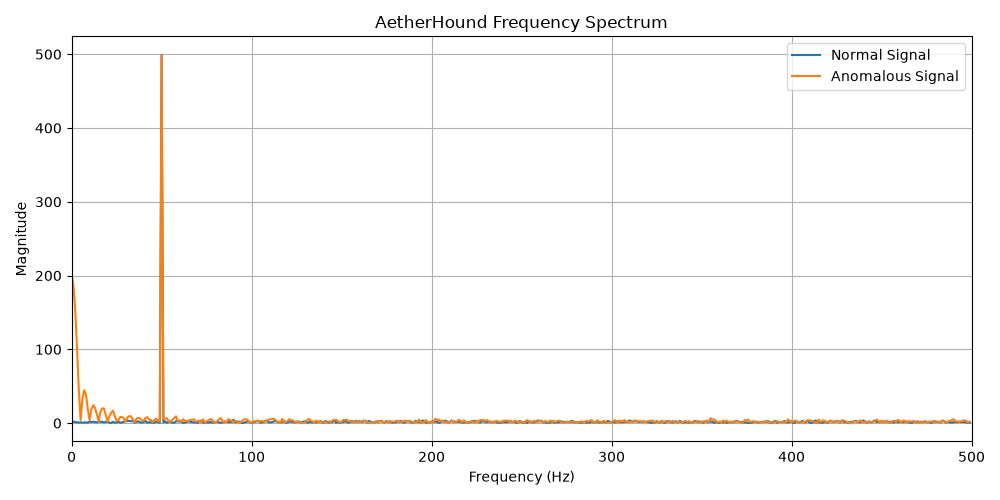
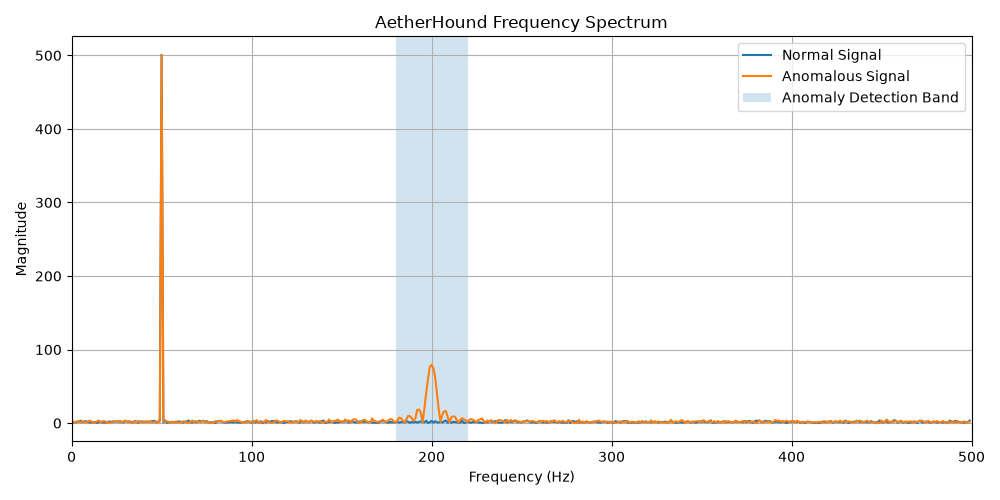
Week 1 - Frequency spectrum visualization

Changed region(s): [[0.031, 0.06, 0.961, 0.9], [0.031, 0.54, 0.062, 0.57], [0.031, 0.39, 0.062, 0.42]]

diff --git a/dsp/plot_spectrum.py b/dsp/plot_spectrum.py
@@ -6,6 +6,9 @@ from fft_analysis import calculate_fft
 
 SAMPLE_RATE = 1000
 
+ANOMALY_LOW = 180
+ANOMALY_HIGH = 220
+
 
 # Load signal data
 with open("../data/samples/signal_samples.json", "r") as file:
@@ -44,6 +47,15 @@ plt.plot(
 )
 
 
+# Highlight anomaly detection band
+plt.axvspan(
+    ANOMALY_LOW,
+    ANOMALY_HIGH,
+    alpha=0.2,
+    label="Anomaly Detection Band"
+)
+
+
 plt.xlabel("Frequency (Hz)")
 plt.ylabel("Magnitude")
 
@@ -64,6 +76,4 @@ plt.savefig(
 
 
 print("Frequency spectrum saved.")
-print(
-    "File: ../data/processed/frequency_spectrum.png"
-)
+print("File: ../data/processed/frequency_spectrum.png")
